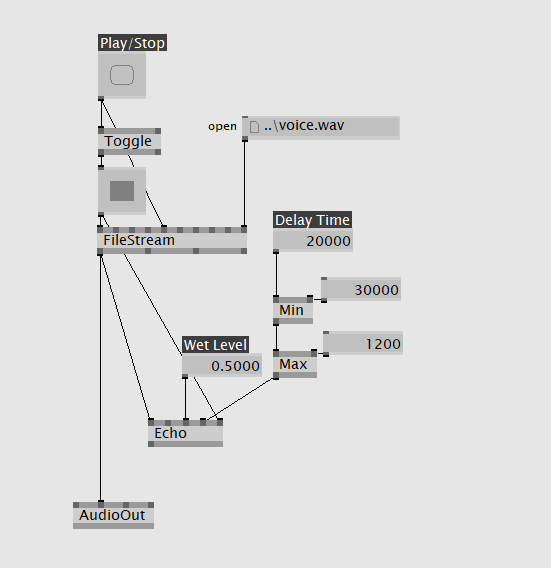
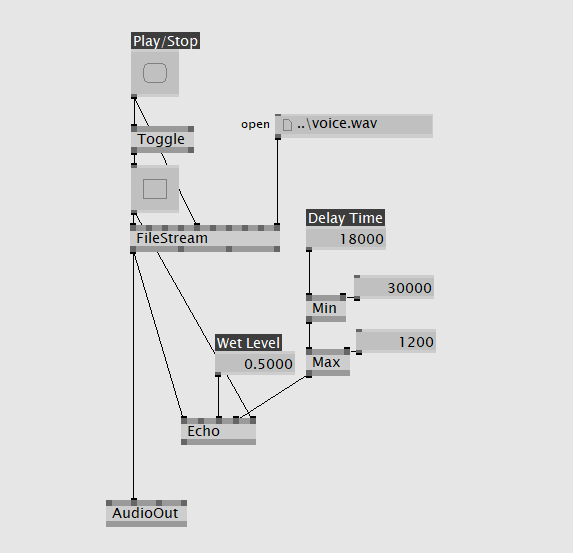
edit text

Changed region(s): [[0.1234, 0.0307, 0.7713, 0.953], [0.7096, 0.1844, 0.7713, 0.2459]]

diff --git a/vvvv/README.md b/vvvv/README.md
@@ -70,7 +70,7 @@ DShow9にはディストーション、EQ、リバーブくらいしかエフェ
 BassライブラリにはEchoノードが用意されています。Echoノードは制限の多いディレイというイメージです。  
 フィードバックは1回のみ。Wetのみ取り出すことは不可。
 また、オーディオグラフはループ構造を許可していないらしく、接続を工夫してフィードバックを作り出すことはできないようです。
-ディレイタイムの単位も不明です。20000にすると400msecくらいになります。上限値下限値も説明がありませんが、さまざまな値を入れて試したところ1200～30000のようで、範囲外の値を指定しても無視されます。
+ディレイタイムの単位は明記されていませんがサンプル数のようです。18000にすると約400msecになります（18000÷44100＝0.408）。上限値下限値も説明がありませんが、さまざまな値を入れて試したところ1200～30000のようで、範囲外の値を指定しても無視されます。
 AudioOutはVAudioやDShow9と同名ですが、BassライブラリのAudioOutは音声信号を接続するinletの場所が異なることに注意してください。
 
 ![bass_delay](bass_delay.png)
